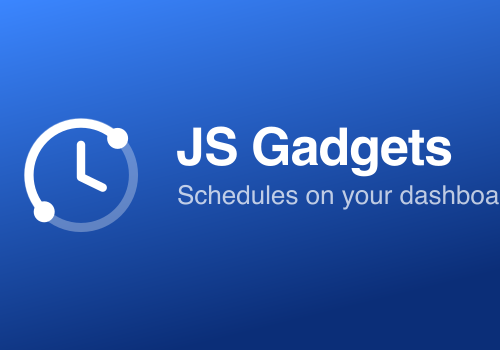
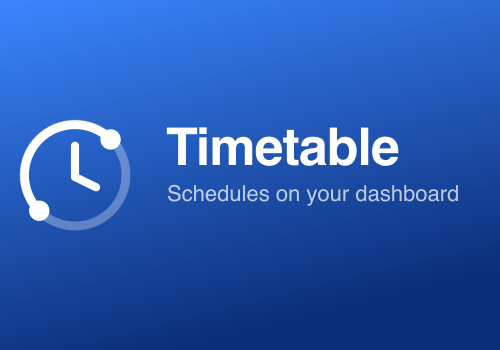
Rename to Timetable and split out as its own app
New app id net.sparud.timetable. The collection framing cost more than it
gave: every driver shows up in everyone's Add-device list, and permissions are
app-wide, so one future gadget needing homey:manager:api would put the
'control everything' warning in front of every schedules user. This app
declares no permissions and is worth keeping that way.

Changed region(s): [[0.33, 0.3429, 1.0, 0.6], [0.03, 0.3143, 0.3, 0.6857]]

diff --git a/app.ts b/app.ts
@@ -10,7 +10,7 @@ const TICK_MS = 20_000;
 
 const DRIVERS = ['time', 'range'] as const;
 
-class JsGadgetsApp extends Homey.App {
+class TimetableApp extends Homey.App {
 
   private ticker?: NodeJS.Timeout;
 
@@ -39,7 +39,7 @@ class JsGadgetsApp extends Homey.App {
       this.onTick().catch(err => this.error('Tick failed:', err));
     }, TICK_MS);
 
-    this.log('JS Gadgets has been initialized');
+    this.log('Timetable has been initialized');
   }
 
   override async onUninit(): Promise<void> {
@@ -116,4 +116,4 @@ class JsGadgetsApp extends Homey.App {
 
 }
 
-export = JsGadgetsApp;
+export = TimetableApp;

diff --git a/README.md b/README.md
@@ -1,4 +1,4 @@
-# JS Gadgets
+# Timetable
 
 A Homey app that turns a schedule into a **device**, so the times live somewhere you
 can see and change them — including from a dashboard tile — instead of being buried
